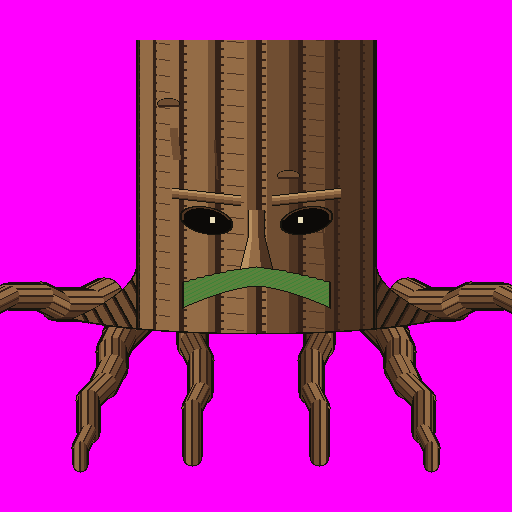
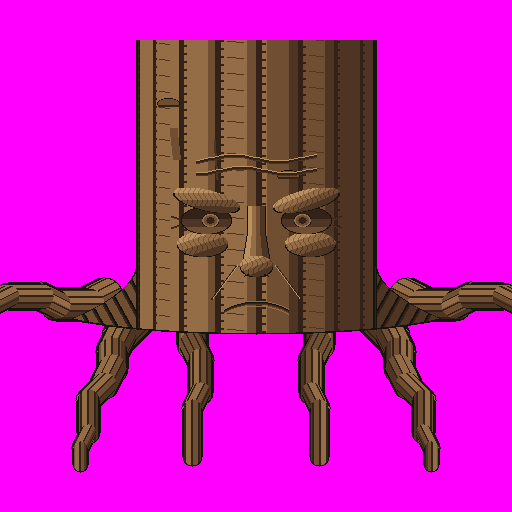
v0.16.0 art: an old, carved, grumpy face and a textured crown
Caleb's review: no green moustache, no black eyes; the face in brown with
depth, very old and still a little grumpy; leaves without circles, with more
texture and no gloss. The face is carved into the bark, lit from the top-left:
heavy brow bulges, deep hollows with old knots for eyes, cheeks, a broad nose,
deep folds and a downturned mouth, with wrinkles and cracks. The crown is one
leafy mass with a lumpy edge, dense small leaves, darker clumps and a shadow
band, no highlights.

Changed region(s): [[0.3438, 0.2812, 0.6875, 0.625]]

diff --git a/rootflow/tools/make_art.py b/rootflow/tools/make_art.py
@@ -1656,38 +1656,82 @@ def make_tree_alive():
             if px[y][x] in (7, 1) and abs(x - TREE_CX) < 26 and y < trunk_bottom(x) - 2:
                 px[y][x] = bark_color(x, y)
     fx, fy = FACE_C
+    import math
+
+    def put(x, y, c):
+        if 0 <= x < 512 and 0 <= y < 512 and px[y][x]:
+            px[y][x] = c
+
+    def groove(x0, y0, x1, y1, lit=True):
+        """A carved crease: a dark line with a lit lip just above it (light from the top-left)."""
+        n = max(abs(x1 - x0), abs(y1 - y0)) or 1
+        for t in range(n + 1):
+            x, y = x0 + (x1 - x0) * t // n, y0 + (y1 - y0) * t // n
+            put(x, y, 5)
+            put(x, y + 1, 2)
+            if lit:
+                put(x, y - 1, 6)
+    def mass(cx, cy, rx, ry, tilt=0.0):
+        """A rounded bulge of bark, lit from the top-left: light, mid, dark, with a dark rim below."""
+        for y in range(int(cy - ry) - 1, int(cy + ry) + 2):
+            for x in range(int(cx - rx) - 1, int(cx + rx) + 2):
+                u, v = (x - cx) / rx, (y - cy - tilt * (x - cx)) / ry
+                d = u * u + v * v
+                if d < 1:
+                    lit = -0.55 * u - 0.85 * v
+                    c = 6 if lit > 0.55 else 4 if lit > 0.05 else 3 if lit > -0.45 else 2
+                    if (x + int(3 * math.sin(y * 0.4))) % 5 == 0 and c in (6, 4, 3):
+                        c = {6: 4, 4: 3, 3: 2}[c]                # wood grain through the bulge
+                    put(x, y, 1 if d > 0.88 and v > 0 else c)
+
+    for y in (fy - 62, fy - 50):                                  # two deep forehead wrinkles
+        for x in range(fx - 60, fx + 61):
+            yy = y + int(4 * math.sin(x * 0.07 + y))
+            put(x, yy - 1, 6)
+            put(x, yy, 5)
+            put(x, yy + 1, 5)
+            put(x, yy + 2, 2)
     for sx in (-1, 1):
         ex = fx + sx * 50
-        for y in range(fy - 16, fy + 17):                    # big, deep, hollow eye sockets
-            for x in range(ex - 28, ex + 29):
-                u, v = (x - ex) / 27, (y - fy) / 14
-                d = u * u + (v + 0.3 * u * sx) ** 2          # drooping toward the outside
+        mass(ex + sx * 4, fy + 24, 26, 13)                        # a cheek under each eye
+        for y in range(fy - 15, fy + 16):                         # deep eye hollows
+            for x in range(ex - 27, ex + 28):
+                u, v = (x - ex) / 26, (y - fy) / 14
+                d = u * u + v * v
                 if d < 1:
-                    px[y][x] = 1 if d > 0.85 else 2 if d > 0.7 and v < 0 else 7
-        for y in range(fy - 3, fy + 3):                      # a glint deep inside
-            for x in range(ex - sx * 6 - 2, ex - sx * 6 + 3):
-                px[y][x] = 13
-        for x in range(ex - 34, ex + 35):                    # long, heavy brows
-            top = fy - 28 + (sx * (ex - x)) // 9          # only a little lower toward the middle: kinder
-            for t in range(11):
-                y = top + t
-                px[y][x] = 1 if t in (0, 10) else 6 if t < 3 else 4 if t < 6 else 3 if t < 9 else 2
-    for y in range(fy - 10, fy + 54):                          # a thick nose, wider toward its tip
-        w = 8 + max(0, y - fy - 14) // 4
+                    put(x, y, 1 if d > 0.9 else 5 if v < -0.1 else 2 if v < 0.5 else 3)
+        for y in range(fy - 7, fy + 8):                           # an old knot for an eye
+            for x in range(ex - sx * 4 - 9, ex - sx * 4 + 10):
+                d = ((x - ex + sx * 4) / 9) ** 2 + ((y - fy) / 7) ** 2
+                if d < 1:
+                    put(x, y, 1 if d > 0.85 else 4 if d > 0.55 else 3 if d > 0.2 else 5)
+        mass(ex, fy - 20, 34, 11, tilt=sx * -0.22)                # a heavy brow, sloping to the middle
+        for k in range(2):                                        # two short cracks at the outer corner
+            ox = ex + sx * 27
+            for t in range(9):
+                x, y = ox + sx * t, fy - 2 + k * 7 + (t // 3) * (1 if k else -1)
+                put(x, y, 5)
+                put(x, y + 1, 2)
+    for y in range(fy - 14, fy + 44):                             # a broad nose
+        w = 9 + max(0, y - fy - 10) // 6
         for x in range(fx - w, fx + w + 1):
-            px[y][x] = 1 if abs(x - fx) >= w else 6 if x < fx - w // 2 else 4 if x < fx + w // 3 else 2
-    for sx in (-1, 1):                                         # nostrils
-        for y in range(fy + 48, fy + 53):
-            for x in (fx + sx * 9, fx + sx * 10):
-                px[y][x] = 1
-    for y in range(fy + 44, fy + 92):                          # a bushy, mossy moustache, drooping at the ends
-        for x in range(fx - 74, fx + 75):
-            u = (x - fx) / 74
-            top = fy + 52 - int((1 - u * u) * 6) + int(abs(u) * 10)
-            bot = fy + 66 + int(abs(u) ** 1.5 * 22)
-            if top <= y <= bot:
-                edge = y == top or y == bot or abs(u) > 0.98
-                px[y][x] = 1 if edge else 9 if ((x % 8) // 2 + y) % 4 == 0 else 12   # repeats every 8 px
+            put(x, y, 1 if abs(x - fx) == w else 6 if x < fx - w // 2 else 4 if x < fx else 3 if x < fx + w // 2 else 2)
+    mass(fx, fy + 46, 17, 11)                                     # its round tip
+    for sx in (-1, 1):
+        for t in range(5):
+            put(fx + sx * (8 + t), fy + 54 + t // 2, 1)          # nostrils
+        for t in range(34):                                       # deep folds from the nose down
+            x, y = fx + sx * (20 + t * 3 // 4), fy + 46 + t
+            put(x, y, 5)
+            put(x + sx, y, 5)
+            put(x - sx, y - 1, 6)
+    for x in range(fx - 32, fx + 33):                              # a downturned mouth, deeply carved
+        y = fy + 82 + int(((x - fx) / 32) ** 2 * 8)
+        put(x, y - 1, 4)
+        put(x, y, 1)
+        put(x, y + 1, 5)
+        put(x, y + 2, 2)
+        put(x, y + 4, 4)
     out = Image.new("P", (512, 512), 0)
     out.putpalette([c for rgb in ALIVE_PAL for c in rgb])
     out.putdata([v for row in px for v in row])
@@ -1713,50 +1757,51 @@ def leaf_texture(x, y):
     return 8
 
 
+def leaf_cell(x, y):
+    """Dense small leaves repeating every 16 px: leaf shapes in two greens over dark gaps.
+    No highlights: the light is soft under the crown."""
+    u, v = x % 16, y % 16
+    leaves = ((2, 3, 1), (9, 1, -1), (13, 7, 1), (5, 10, -1), (11, 13, 1), (1, 14, -1), (7, 6, 1))
+    for lx, ly, sl in leaves:
+        for ox in (-16, 0, 16):
+            for oy in (-16, 0, 16):
+                a, b = u - lx - ox, v - ly - oy
+                if ((a + sl * b * 0.6) / 3.2) ** 2 + (b / 1.8) ** 2 < 1:
+                    return 10 if (lx + ly) % 3 == 0 else 9
+    return 8
+
+
 def make_leaves():
-    """The healed tree's crown, like the Great Deku Tree's: big rounded puffs of leaves overlapping
-    (upper ones first, each later puff drawn over with its own outline), a flat green body with a
-    few leaf flecks (repeating every 16 px), a light rim on top and a shadow band underneath, and
-    several holes you see the ground through. Left half drawn; the right half mirrors it."""
+    """The healed tree's crown: one leafy mass with a ragged, scalloped edge (no round puffs),
+    dense small-leaf texture, darker toward its lower edge, no gloss; a couple of ragged holes.
+    Left half drawn; the right half mirrors it."""
+    import math
     S = 512
     px = [[0] * S for _ in range(S)]
-    puffs = [   # (x, y, radius), left half; drawn top to bottom
-        (200, 4, 80), (70, 10, 78),
-        (150, 96, 66), (40, 128, 70),
-        (24, 236, 56),
-    ]
-    for cx, cy, r in sorted(puffs, key=lambda p: p[1]):
-        for y in range(max(0, cy - r), min(S, cy + r + 1)):
-            for x in range(max(0, cx - r), min(256, cx + r + 1)):
-                d = ((x - cx) ** 2 + (y - cy) ** 2) ** 0.5 / r
-                if d >= 1:
-                    continue
-                if x > TREE_CX - TRUNK_HALF - 6 and y > 150:          # keep Bark's face in view
-                    continue
-                ny = (y - cy) / r
-                nx = (x - cx) / r
-                if d > 0.94:
-                    c = 1
-                elif d > 0.8 and ny > 0.15:
-                    c = 8                                            # shadow under the puff
-                elif d > 0.82 and ny < -0.35 and nx < 0.3:
-                    c = 11                                           # light along the top
-                else:
-                    f = ((x % 16) * 5 + (y % 16) * 3) % 17
-                    c = 10 if f == 0 else 8 if f == 9 else 9
+
+    def bottom(x):                                    # the crown's lower edge: over the trunk, then down the side
+        base = 146 if x > 126 else 146 + (126 - x) * 1.05
+        return base + 9 * math.sin(x * 0.11) + 5 * math.sin(x * 0.29 + 1.3)   # gentle lumps
+
+    def hole(x, y):
+        for hx, hy, hr in ((70, 90, 15), (176, 54, 11)):
+            a = math.atan2(y - hy, x - hx)
+            if (x - hx) ** 2 + (y - hy) ** 2 < (hr * (1 + 0.15 * math.sin(3 * a + hx))) ** 2:
+                return True
+        return False
+    for y in range(S):
+        for x in range(256):
+            b = bottom(x)
+            if y < b and not hole(x, y):
+                c = 8 if y > b - 4 else leaf_cell(x, y)               # shadow along the lower edge
+                if ((x // 16) * 2 + (y // 16) * 3) % 5 == 0 and c == 10:
+                    c = 9                                             # darker clumps here and there
                 px[y][x] = c
-    for hx, hy, hr in ((92, 100, 14),):                                # a hole
-        for y in range(hy - hr - 2, hy + hr + 3):
-            for x in range(hx - hr - 2, hx + hr + 3):
-                if not (0 <= x < 256 and 0 <= y < S) or not px[y][x]:
-                    continue
-                d = ((x - hx) ** 2 + (y - hy) ** 2) ** 0.5
-                if d < hr:
-                    px[y][x] = 0
-                elif d < hr + 1.2:
-                    px[y][x] = 1
-                elif d < hr + 3 and y < hy:
-                    px[y][x] = 8                                     # the hole's shadowed upper edge
+    for y in range(S):                                                # a dark outline where the leaves end
+        for x in range(256):
+            if px[y][x] and any(0 <= x + dx < 256 and 0 <= y + dy < S and px[y + dy][x + dx] == 0
+                                for dx, dy in ((1, 0), (-1, 0), (0, 1), (0, -1))):
+                px[y][x] = 1
     for y in range(S):
         for x in range(256):
             px[y][mirror_x(x)] = px[y][x]
